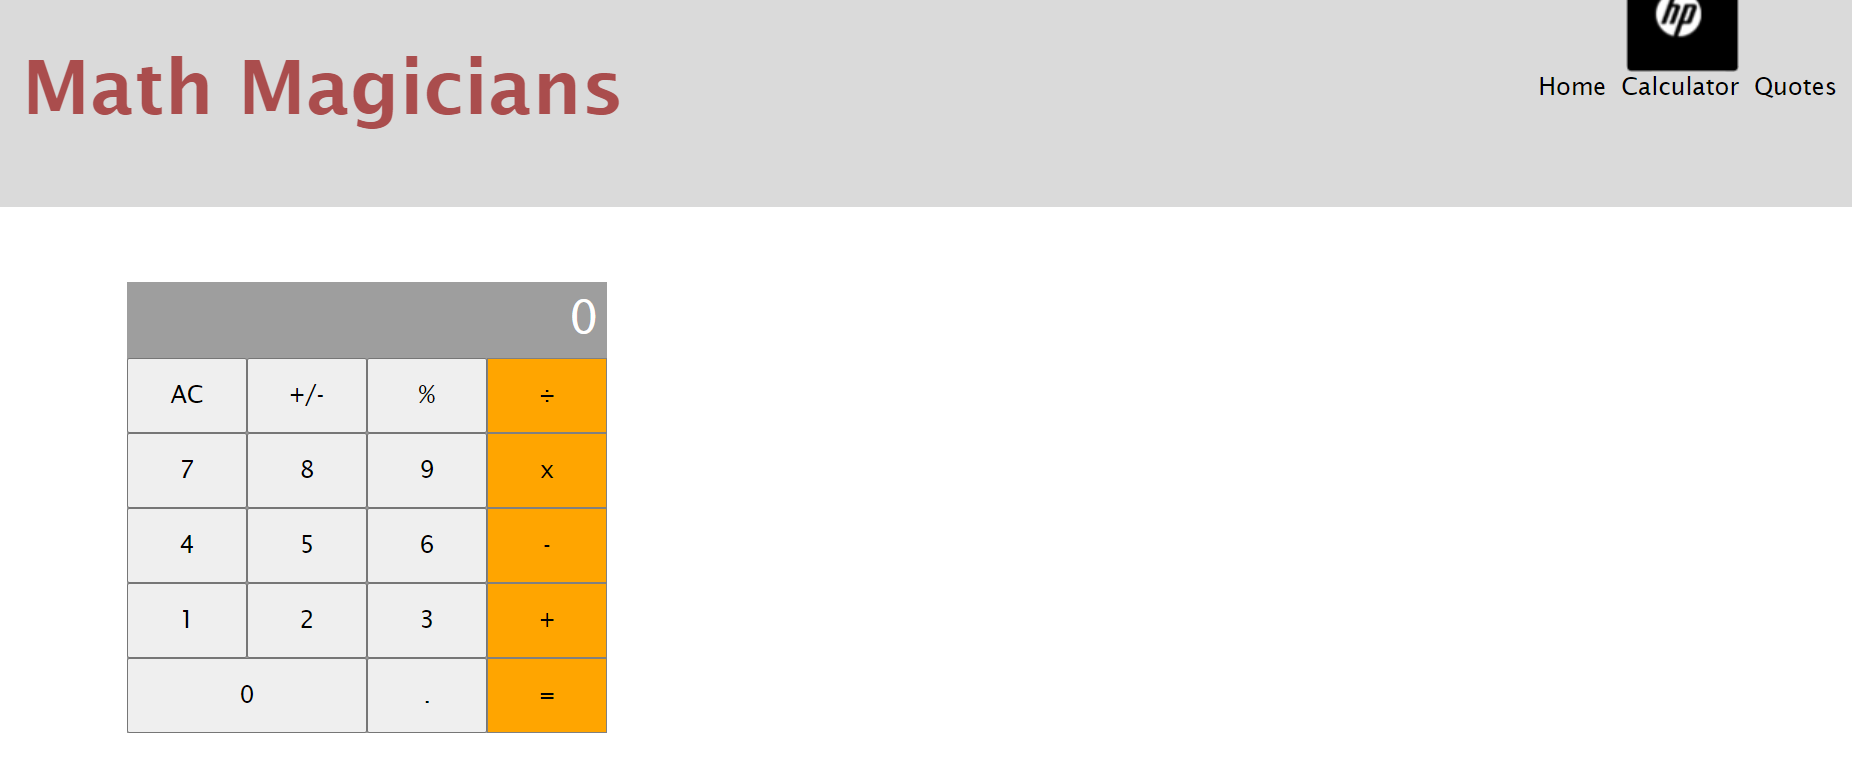
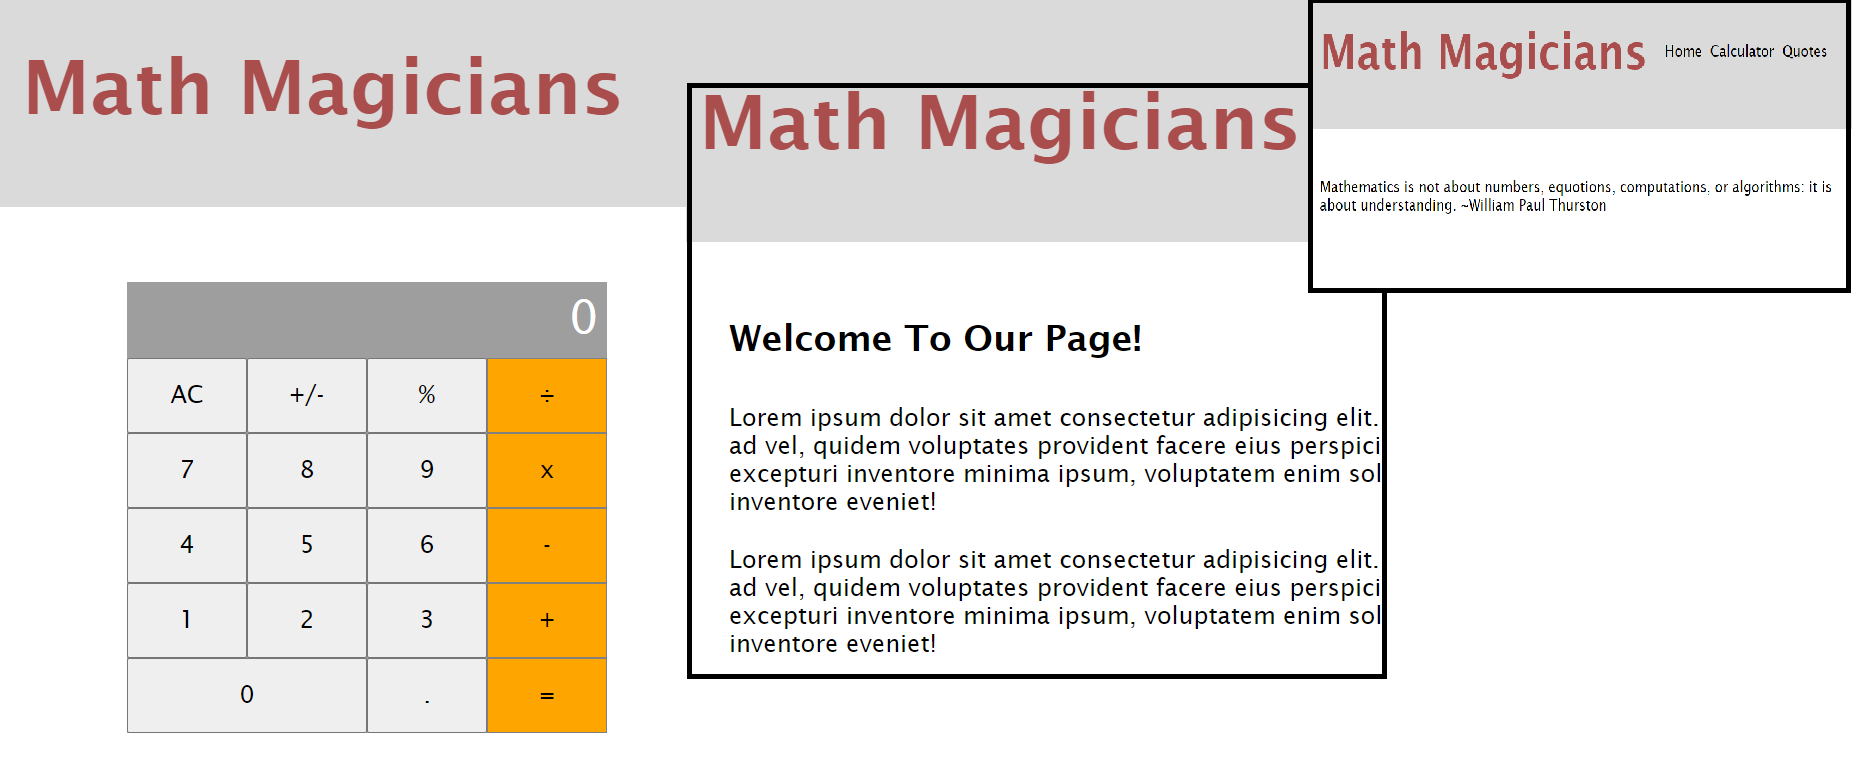
Add screen shot for project #5

diff --git a/index.js b/index.js
@@ -89,8 +89,8 @@ const projects = [
       'It is a Single Page App (SPA) built in React. This project allows users to make simple calculations and read a random math-related quote.',
     technologies: ['css','react', 'javascript', 'heroku', 'netlify'],
     image: {
-      link: './img/project5.png',
-      alt: 'TodoList',
+      link: './img/project5.PNG',
+      alt: 'Math Magicians',
     },
     liveSource: 'https://elmar8287.github.io/react-math/',
     sourceCode: 'https://github.com/elmar8287/react-math',
